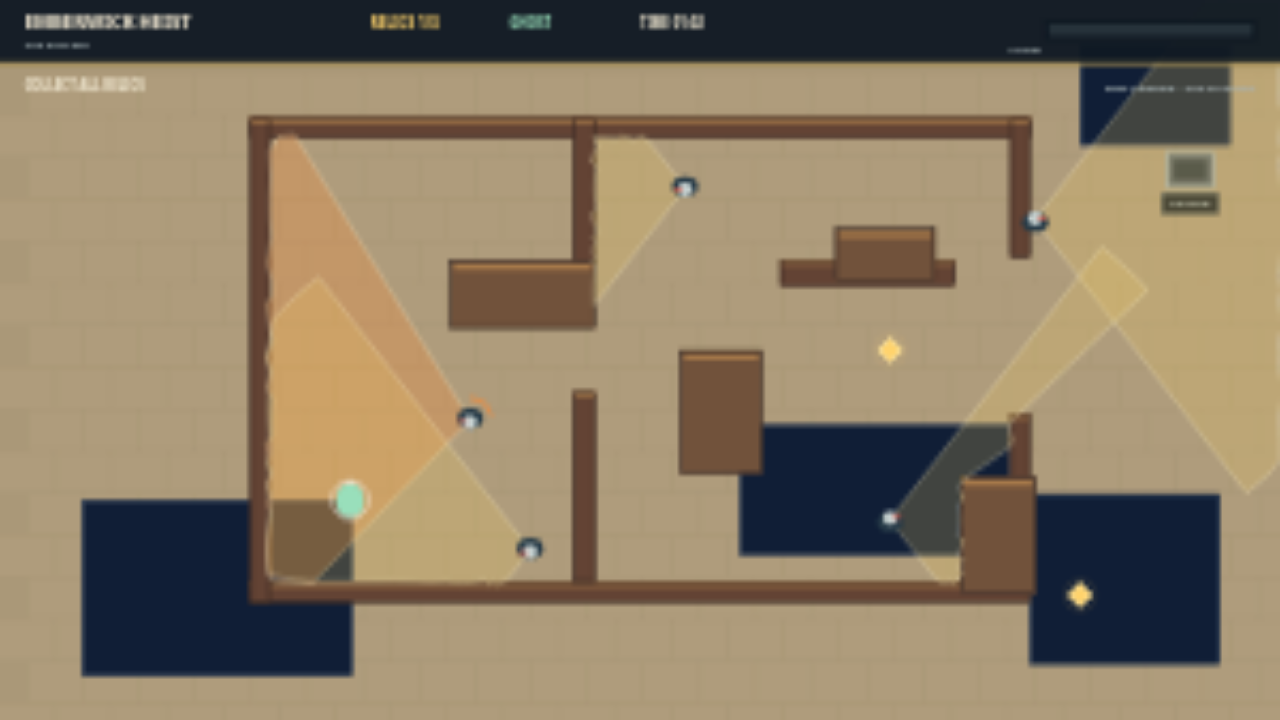
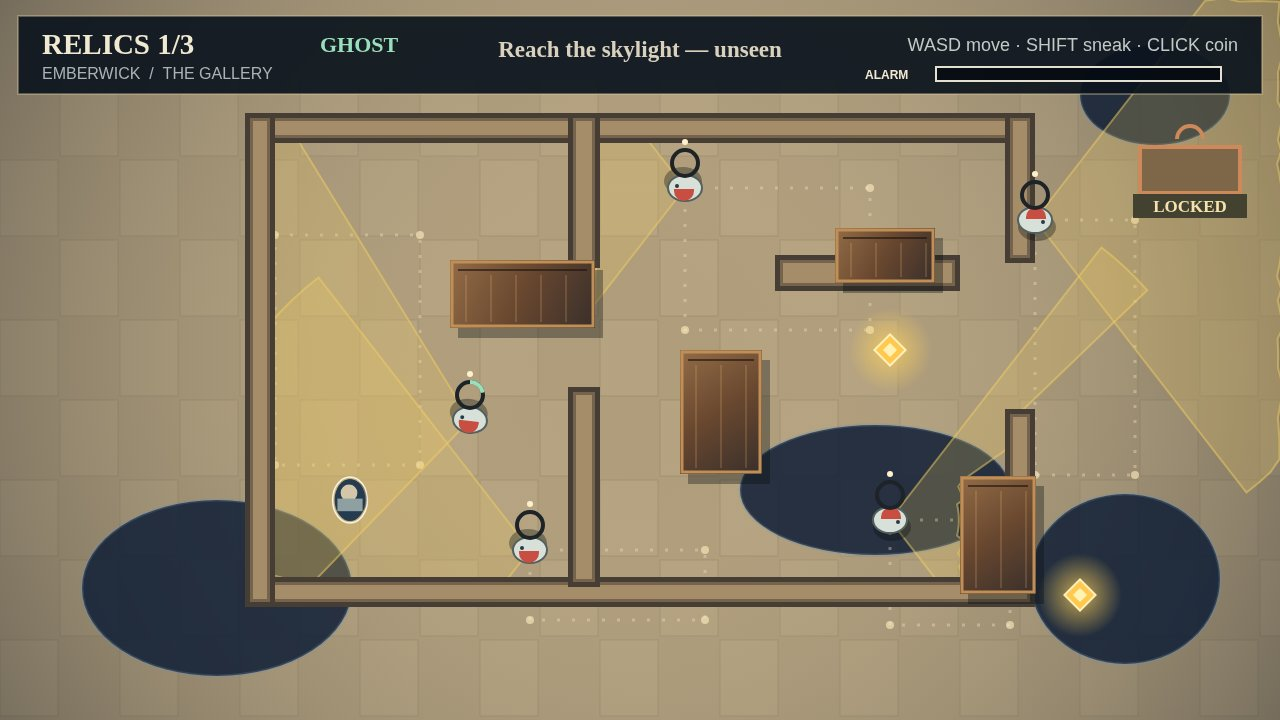
EMBERWICK HEIST round 4: surgical cone/player/exit-label patches

diff --git a/game/src/render.js b/game/src/render.js
@@ -1,44 +1,24 @@
-import {C,W,H} from './config.js';
-import {conePoints,shadowed,covered} from './vision.js';
-
-const poly=(ctx,pts)=>{ctx.beginPath();ctx.moveTo(pts[0].x,pts[0].y);for(let i=1;i<pts.length;i++)ctx.lineTo(pts[i].x,pts[i].y);ctx.closePath()};
-const rect=(ctx,r,color)=>{ctx.fillStyle=color;ctx.fillRect(r.x,r.y,r.w,r.h)};
-const text=(ctx,value,x,y,size=14,color=C.cream,align='left',weight='600')=>{ctx.font=`${weight} ${size}px system-ui, sans-serif`;ctx.textAlign=align;ctx.textBaseline='middle';ctx.fillStyle=color;ctx.fillText(value,x,y)};
-
-export function draw(ctx,canvas,world,p,guards,state,coverState){
-  ctx.setTransform(canvas.width/W,0,0,canvas.height/H,0,0);
-  ctx.clearRect(0,0,W,H);
-  ctx.fillStyle=C.floor;ctx.fillRect(0,0,W,H);
-  ctx.globalAlpha=.18;ctx.fillStyle=C.tile;
-  for(let y=74;y<H;y+=42)for(let x=0;x<W;x+=56)ctx.fillRect(x+(Math.floor(y/42)%2)*28,y,54,40);
-  ctx.globalAlpha=1;
-
-  for(const s of world.shadows){ctx.fillStyle=C.shadow;ctx.fillRect(s.x,s.y,s.w,s.h);ctx.strokeStyle=C.shadowEdge;ctx.lineWidth=2;ctx.strokeRect(s.x+1,s.y+1,s.w-2,s.h-2)}
-  for(const r of world.walls){ctx.fillStyle=C.wood;ctx.fillRect(r.x,r.y,r.w,r.h);ctx.fillStyle=C.woodHi;ctx.fillRect(r.x,r.y,r.w,Math.min(5,r.h));ctx.strokeStyle='#392a25';ctx.lineWidth=2;ctx.strokeRect(r.x+1,r.y+1,r.w-2,r.h-2)}
-  for(const r of world.cover){ctx.fillStyle='#71523b';ctx.fillRect(r.x,r.y,r.w,r.h);ctx.fillStyle='#a6794a';ctx.fillRect(r.x+4,r.y+4,r.w-8,6);ctx.strokeStyle='#382d29';ctx.lineWidth=2;ctx.strokeRect(r.x+1,r.y+1,r.w-2,r.h-2)}
-
-  const ex=world.exit[0],ey=world.exit[1],open=world.relics.every(r=>r.taken);
-  ctx.save();ctx.translate(ex,ey);ctx.fillStyle=open?'#b9e6cd':'#59636a';ctx.fillRect(-23,-17,46,34);ctx.strokeStyle=open?'#f1e8d2':'#a8b4b6';ctx.lineWidth=3;ctx.strokeRect(-23,-17,46,34);ctx.fillStyle=open?'#263e3b':'#303b43';ctx.fillRect(-16,-10,32,20);ctx.restore();
-  ctx.font='700 10px system-ui, sans-serif';const exitLabel=open?'SKYLIGHT':'LOCKED',tw=ctx.measureText(exitLabel).width+18;ctx.fillStyle='rgba(16,25,35,.92)';ctx.fillRect(ex-tw/2,ey+23,tw,21);ctx.strokeStyle=open?'#99dfbb':'#75838a';ctx.lineWidth=1;ctx.strokeRect(ex-tw/2+.5,ey+23.5,tw-1,20);text(ctx,exitLabel,ex,ey+34,10,open?C.mint:C.muted,'center','700');
-
-  for(const r of world.relics)if(!r.taken){ctx.save();ctx.translate(r.x,r.y);ctx.rotate(Math.PI/4);ctx.fillStyle=C.gold;ctx.fillRect(-9,-9,18,18);ctx.strokeStyle='#fff0bb';ctx.lineWidth=2;ctx.strokeRect(-8,-8,16,16);ctx.restore();ctx.beginPath();ctx.arc(r.x,r.y,16,0,Math.PI*2);ctx.strokeStyle='rgba(255,211,108,.38)';ctx.lineWidth=1;ctx.stroke()}
-
-  for(const g of guards){const pts=conePoints(g,world);poly(ctx,pts);const alpha=g.mode==='alert'?.38:g.suspicion>.18?.30:.22;ctx.fillStyle=g.mode==='alert'?`rgba(239,69,69,${alpha})`:g.suspicion>.18?`rgba(241,139,61,${alpha})`:`rgba(242,206,98,${alpha})`;ctx.fill();ctx.strokeStyle='rgba(255,244,210,.5)';ctx.lineWidth=2;ctx.stroke();
-    if(g.suspicion>.08){ctx.beginPath();ctx.arc(g.x,g.y,22,-Math.PI/2,-Math.PI/2+Math.PI*2*g.suspicion);ctx.strokeStyle=g.mode==='alert'?C.hot:C.warn;ctx.lineWidth=3;ctx.stroke()}
-    ctx.save();ctx.translate(g.x,g.y);ctx.rotate(g.angle);ctx.fillStyle='#273b48';ctx.beginPath();ctx.ellipse(0,2,13,10,0,0,Math.PI*2);ctx.fill();ctx.fillStyle=C.uniform;ctx.beginPath();ctx.arc(0,-2,7,0,Math.PI*2);ctx.fill();ctx.fillStyle=C.red;ctx.fillRect(3,-4,8,3);ctx.restore();
-  }
-  if(p.coin){ctx.beginPath();ctx.arc(p.coin.x,p.coin.y,14,0,Math.PI*2);ctx.strokeStyle='rgba(241,232,210,.75)';ctx.lineWidth=2;ctx.stroke();ctx.beginPath();ctx.arc(p.coin.x,p.coin.y,7,0,Math.PI*2);ctx.stroke()}
-  const pr=(p.r||12)*1.4;ctx.save();ctx.translate(p.x,p.y);ctx.rotate(p.face||0);ctx.fillStyle=p.seen?C.hot:C.mint;ctx.beginPath();ctx.ellipse(0,0,pr,pr*.82,0,0,Math.PI*2);ctx.fill();ctx.strokeStyle='rgba(255,255,255,.9)';ctx.lineWidth=2;ctx.beginPath();ctx.arc(0,0,pr+2,0,Math.PI*2);ctx.stroke();ctx.fillStyle='#f1e8d2';ctx.beginPath();ctx.moveTo(pr+4,0);ctx.lineTo(pr-2,-4);ctx.lineTo(pr-2,4);ctx.closePath();ctx.fill();ctx.restore();
-
-  ctx.fillStyle='rgba(16,25,35,.96)';ctx.fillRect(0,0,W,64);ctx.fillStyle=C.gold;ctx.fillRect(0,62,W,2);
-  text(ctx,'EMBERWICK HEIST',24,22,18,C.cream,'left','800');text(ctx,world.name,24,46,10,C.muted,'left','700');
-  text(ctx,`RELICS ${world.relics.filter(r=>r.taken).length}/3`,370,25,13,C.gold,'left','800');
-  const hidden=shadowed(p,world)||covered(p,world)||coverState?.hidden;
-  text(ctx,hidden?'GHOST':'SEEN',510,25,12,hidden?C.mint:C.warn,'left','800');
-  text(ctx,`TIME ${Math.floor(state.time/60).toString().padStart(2,'0')}:${Math.floor(state.time%60).toString().padStart(2,'0')}`,640,25,12,C.cream,'left','700');
-  text(ctx,open?'REACH THE SKYLIGHT':'COLLECT ALL RELICS',24,86,12,C.cream,'left','700');
-  text(ctx,`${open?'EXIT OPEN':'EXIT LOCKED'} · ${world.name}`,W-24,86,11,open?C.mint:C.muted,'right','700');
-  ctx.fillStyle='rgba(16,25,35,.88)';ctx.fillRect(W-235,20,211,20);ctx.fillStyle='#26323a';ctx.fillRect(W-231,24,203,12);ctx.fillStyle=state.alarm>.55?C.hot:C.warn;ctx.fillRect(W-231,24,203*Math.max(0,Math.min(1,state.alarm)),12);text(ctx,'ALARM',W-240,50,9,C.muted,'right','700');
-  if(state.alert>0){ctx.fillStyle='rgba(124,34,35,.92)';ctx.fillRect(W/2-135,73,270,33);ctx.strokeStyle='#ff8b6f';ctx.lineWidth=1;ctx.strokeRect(W/2-134.5,73.5,269,32);text(ctx,'GUARDS ALERTED',W/2,90,13,'#fff0df','center','800')}
-  if(state.won){ctx.fillStyle='rgba(8,14,20,.76)';ctx.fillRect(0,0,W,H);ctx.fillStyle='rgba(16,25,35,.97)';ctx.fillRect(W/2-245,H/2-114,490,228);ctx.strokeStyle=C.gold;ctx.lineWidth=2;ctx.strokeRect(W/2-244,H/2-113,488,226);text(ctx,'HEIST COMPLETE',W/2,H/2-51,30,C.gold,'center','800');text(ctx,'THE SKYLIGHT IS YOURS',W/2,H/2-7,14,C.cream,'center','700');text(ctx,'PRESS ENTER TO PLAY AGAIN',W/2,H/2+61,12,C.mint,'center','700')}
-}
+import {W,H,C,T} from './config.js';
+import {conePoints} from './vision.js';
+const rect=(c,r,color,stroke=null,lw=1)=>{c.fillStyle=color;c.fillRect(r.x,r.y,r.w,r.h);if(stroke){c.strokeStyle=stroke;c.lineWidth=lw;c.strokeRect(r.x,r.y,r.w,r.h)}};
+function floor(c,w){c.fillStyle=C.floor;c.fillRect(0,0,W,H);for(let y=80;y<H;y+=80)for(let x=(y/80%2)*60;x<W;x+=120){c.fillStyle='rgba(239,218,178,.10)';c.fillRect(x,y,58,76);c.strokeStyle='rgba(45,38,31,.12)';c.strokeRect(x,y,58,76)}
+const vignette=c.createRadialGradient(640,360,100,640,360,820);vignette.addColorStop(0,'rgba(255,233,183,.06)');vignette.addColorStop(1,'rgba(12,20,33,.46)');c.fillStyle=vignette;c.fillRect(0,0,W,H);
+for(const s of w.shadows){c.fillStyle='rgba(12,27,53,.84)';c.beginPath();c.ellipse(s.x+s.w/2,s.y+s.h/2,s.w/2,s.h/2,0,0,Math.PI*2);c.fill();c.strokeStyle='rgba(106,146,183,.24)';c.lineWidth=3;c.stroke()}}
+function furniture(c,w){for(const r of w.walls){c.fillStyle='#463d34';c.fillRect(r.x-5,r.y-5,r.w+10,r.h+10);c.fillStyle='#75634d';c.fillRect(r.x,r.y,r.w,r.h);c.fillStyle='#a68d69';c.fillRect(r.x+3,r.y+3,Math.max(0,r.w-6),Math.max(0,r.h-6))}
+for(const r of w.cover){c.fillStyle='rgba(10,13,17,.35)';c.fillRect(r.x+8,r.y+10,r.w,r.h);const grad=c.createLinearGradient(r.x,r.y,r.x+r.w,r.y+r.h);grad.addColorStop(0,'#936c47');grad.addColorStop(.5,'#68472f');grad.addColorStop(1,'#392f2b');c.fillStyle=grad;c.fillRect(r.x,r.y,r.w,r.h);c.strokeStyle='#c08f57';c.lineWidth=3;c.strokeRect(r.x+2,r.y+2,r.w-4,r.h-4);c.strokeStyle='rgba(32,23,19,.65)';c.lineWidth=2;c.beginPath();c.moveTo(r.x+8,r.y+10);c.lineTo(r.x+r.w-8,r.y+10);c.stroke();for(let x=r.x+16;x<r.x+r.w-8;x+=25){c.strokeStyle='rgba(231,182,113,.2)';c.beginPath();c.moveTo(x,r.y+15);c.lineTo(x,r.y+r.h-6);c.stroke()}}}
+function routes(c,gs){c.save();c.setLineDash([3,12]);c.lineWidth=3;c.strokeStyle='rgba(245,230,193,.37)';for(const g of gs){c.beginPath();g.route.forEach(([x,y],i)=>i?c.lineTo(x,y):c.moveTo(x,y));c.closePath();c.stroke();for(const [x,y] of g.route){c.fillStyle='rgba(255,236,190,.62)';c.beginPath();c.arc(x,y,4,0,Math.PI*2);c.fill()}}c.restore()}
+function exitMark(c,w,state){const [x,y]=w.exit,locked=state.alert>0||w.relics.some(r=>!r.taken),label=locked?'LOCKED':'SKYLIGHT';c.save();c.translate(x,y);c.fillStyle=locked?'#5e4940':'#167d71';c.fillRect(-50,-23,100,46);c.strokeStyle=locked?'#c47658':'#90e3bf';c.lineWidth=4;c.strokeRect(-50,-23,100,46);c.fillStyle='rgba(11,19,29,.94)';c.fillRect(-57,24,114,24);c.fillStyle='#f8e8c2';c.font='bold 17px Georgia';c.textAlign='center';c.fillText(label,0,42);c.beginPath();c.arc(0,-31,13,Math.PI,Math.PI*2);c.stroke();c.restore()}
+function relic(c,r){if(r.taken)return;c.save();c.translate(r.x,r.y);const glow=c.createRadialGradient(0,0,2,0,0,42);glow.addColorStop(0,'rgba(255,210,92,.7)');glow.addColorStop(1,'rgba(255,210,92,0)');c.fillStyle=glow;c.beginPath();c.arc(0,0,42,0,Math.PI*2);c.fill();c.rotate(Math.PI/4);c.fillStyle='#ffc950';c.fillRect(-11,-11,22,22);c.fillStyle='#fff2b5';c.fillRect(-5,-5,10,10);c.strokeStyle='#fff1bd';c.lineWidth=2;c.strokeRect(-11,-11,22,22);c.restore()}
+function cones(c,gs,w){for(const g of gs){const pts=conePoints(g,w);c.beginPath();pts.forEach((p,i)=>i?c.lineTo(p.x,p.y):c.moveTo(p.x,p.y));c.closePath();const col=g.suspicion>.75?C.hot:g.suspicion>.35?C.warn:C.calm;c.fillStyle=col;c.globalAlpha=g.suspicion>.75?.38:g.suspicion>.35?.30:.22;c.fill();c.globalAlpha=1;c.strokeStyle=col;c.globalAlpha=.5;c.lineWidth=2;c.stroke();c.globalAlpha=1}}
+function guard(c,g){c.save();c.translate(g.x,g.y);c.rotate(g.angle);c.fillStyle='rgba(12,16,18,.35)';c.beginPath();c.ellipse(2,7,19,14,0,0,Math.PI*2);c.fill();c.fillStyle='#d7e0d9';c.beginPath();c.ellipse(0,0,17,13,0,0,Math.PI*2);c.fill();c.strokeStyle='#53605f';c.lineWidth=2;c.stroke();c.fillStyle='#c94e42';c.beginPath();c.arc(1,-3,10,Math.PI,Math.PI*2);c.lineTo(11,-1);c.lineTo(-9,-1);c.fill();c.fillStyle='#293a45';c.beginPath();c.arc(8,2,2,0,Math.PI*2);c.fill();c.restore();
+c.save();c.strokeStyle='#1d2327';c.lineWidth=4;c.beginPath();c.arc(g.x,g.y-25,13,0,Math.PI*2);c.stroke();c.strokeStyle=g.suspicion>.75?C.hot:g.suspicion>.35?C.warn:C.mint;c.lineWidth=4;c.beginPath();c.arc(g.x,g.y-25,13,-Math.PI/2,-Math.PI/2+Math.PI*2*g.suspicion);c.stroke();c.restore();
+if(g.pause>0){c.fillStyle='#fff1cd';c.beginPath();c.arc(g.x,g.y-46,3,0,Math.PI*2);c.fill()}}
+function player(c,p,cover){c.save();c.globalAlpha=cover.alcove?0:cover.hidden?.42:1;c.translate(p.x,p.y);c.rotate(p.face);c.fillStyle='rgba(7,12,19,.35)';c.beginPath();c.ellipse(2,6,p.sneak?13:16,p.sneak?8:12,0,0,Math.PI*2);c.fill();c.fillStyle='#243b50';c.beginPath();c.ellipse(0,0,p.sneak?16.8:21,p.sneak?11.2:15.4,0,0,Math.PI*2);c.fill();c.strokeStyle='rgba(255,255,255,.85)';c.lineWidth=1.5;c.beginPath();c.ellipse(0,0,p.sneak?18.8:23,p.sneak?13.2:17.4,0,0,Math.PI*2);c.stroke();c.fillStyle='#d4c7a9';c.beginPath();c.arc(7,-1,8.4,0,Math.PI*2);c.fill();c.fillStyle='#8ea0a2';c.fillRect(-11.2,-12.6,12.6,25.2);c.restore()}
+function noise(c,p){if(p.noise>0){c.strokeStyle='rgba(246,216,140,.65)';c.lineWidth=3;c.beginPath();c.arc(p.x,p.y,23+(1-p.noise)*100,0,Math.PI*2);c.stroke();c.strokeStyle='rgba(246,216,140,.25)';c.beginPath();c.arc(p.x,p.y,55+(1-p.noise)*140,0,Math.PI*2);c.stroke()}
+if(p.coin){c.strokeStyle='rgba(255,231,139,.85)';c.lineWidth=4;c.beginPath();c.arc(p.coin.x,p.coin.y,21+(4-p.coin.life)*24,0,Math.PI*2);c.stroke();c.fillStyle=C.gold;c.beginPath();c.arc(p.coin.x,p.coin.y,6,0,Math.PI*2);c.fill()}}
+function hud(c,world,p,state){c.fillStyle='rgba(11,19,29,.92)';c.fillRect(18,16,W-36,78);c.strokeStyle='rgba(232,211,165,.35)';c.strokeRect(18,16,W-36,78);c.fillStyle=C.cream;c.textAlign='left';c.font='bold 29px Georgia';c.fillText(`RELICS ${world.relics.filter(r=>r.taken).length}/3`,42,54);c.fillStyle=p.seen?'#ff9a77':C.mint;c.font='bold 22px Georgia';c.fillText(p.seen?'SEEN':'GHOST',320,52);c.fillStyle=C.muted;c.font='16px Arial';c.fillText(`EMBERWICK  /  ${world.name}`,42,79);
+c.fillStyle='#d9d1be';c.textAlign='center';c.font='bold 23px Georgia';c.fillText('Reach the skylight — unseen',640,57);c.fillStyle='#c3c9c6';c.textAlign='right';c.font='18px Arial';c.fillText('WASD move · SHIFT sneak · CLICK coin',1238,51);
+c.fillStyle='rgba(5,10,16,.8)';c.fillRect(936,67,285,14);c.fillStyle=state.alarm>.65?'#e94f45':state.alarm>.28?'#ee9842':'#70b89b';c.fillRect(936,67,285*state.alarm,14);c.strokeStyle='#e4dfd1';c.strokeRect(936,67,285,14);c.fillStyle=C.cream;c.textAlign='left';c.font='bold 12px Arial';c.fillText(state.alert>0?`ALERT · EXIT LOCK ${state.alert.toFixed(1)}s`:'ALARM',865,79)}
+function card(c,state,p,world){if(state.won){c.fillStyle='rgba(8,15,25,.82)';c.fillRect(0,0,W,H);c.fillStyle='#f3d78d';c.textAlign='center';c.font='bold 64px Georgia';c.fillText(p.seen?'SHADOW — seen':'GHOST — unseen',640,270);c.fillStyle=C.cream;c.font='30px Georgia';c.fillText(`EMBERWICK HEIST  ·  ${world.name}`,640,326);c.font='24px Arial';c.fillText(`TIME  ${Math.floor(state.time/60)}:${String(Math.floor(state.time%60)).padStart(2,'0')}     RELICS  3/3`,640,390);c.fillStyle='#ffd36c';c.font='54px Georgia';c.fillText(p.seen?'★  ★  ☆':'★  ★  ★',640,468);c.fillStyle='#d5d4ce';c.font='19px Arial';c.fillText(state.next===undefined?'Heist complete':'Click or press ENTER to begin the next room',640,530)}if(state.alert>0){c.fillStyle='rgba(185,37,35,.18)';c.fillRect(0,94,W,H-94);c.textAlign='center';c.fillStyle='#ff5c4d';c.font='bold 25px Arial';c.fillText('ALERT — BREAK THE SIGHTLINE',640,132)}}
+export function draw(ctx,canvas,world,p,gs,state,coverState={hidden:false}){const dpr=Math.min(2,devicePixelRatio||1),scale=Math.min(innerWidth/W,innerHeight/H);canvas.width=Math.round(W*scale*dpr);canvas.height=Math.round(H*scale*dpr);canvas.style.width=`${W*scale}px`;canvas.style.height=`${H*scale}px`;canvas.style.position='absolute';canvas.style.left=`${(innerWidth-W*scale)/2}px`;canvas.style.top=`${(innerHeight-H*scale)/2}px`;ctx.setTransform(canvas.width/W,0,0,canvas.height/H,0,0);
+floor(ctx,world);routes(ctx,gs);exitMark(ctx,world,state);for(const r of world.relics)relic(ctx,r);cones(ctx,gs,world);furniture(ctx,world);noise(ctx,p);gs.forEach(g=>guard(ctx,g));player(ctx,p,coverState.hidden);hud(ctx,world,p,state);card(ctx,state,p,world)}
